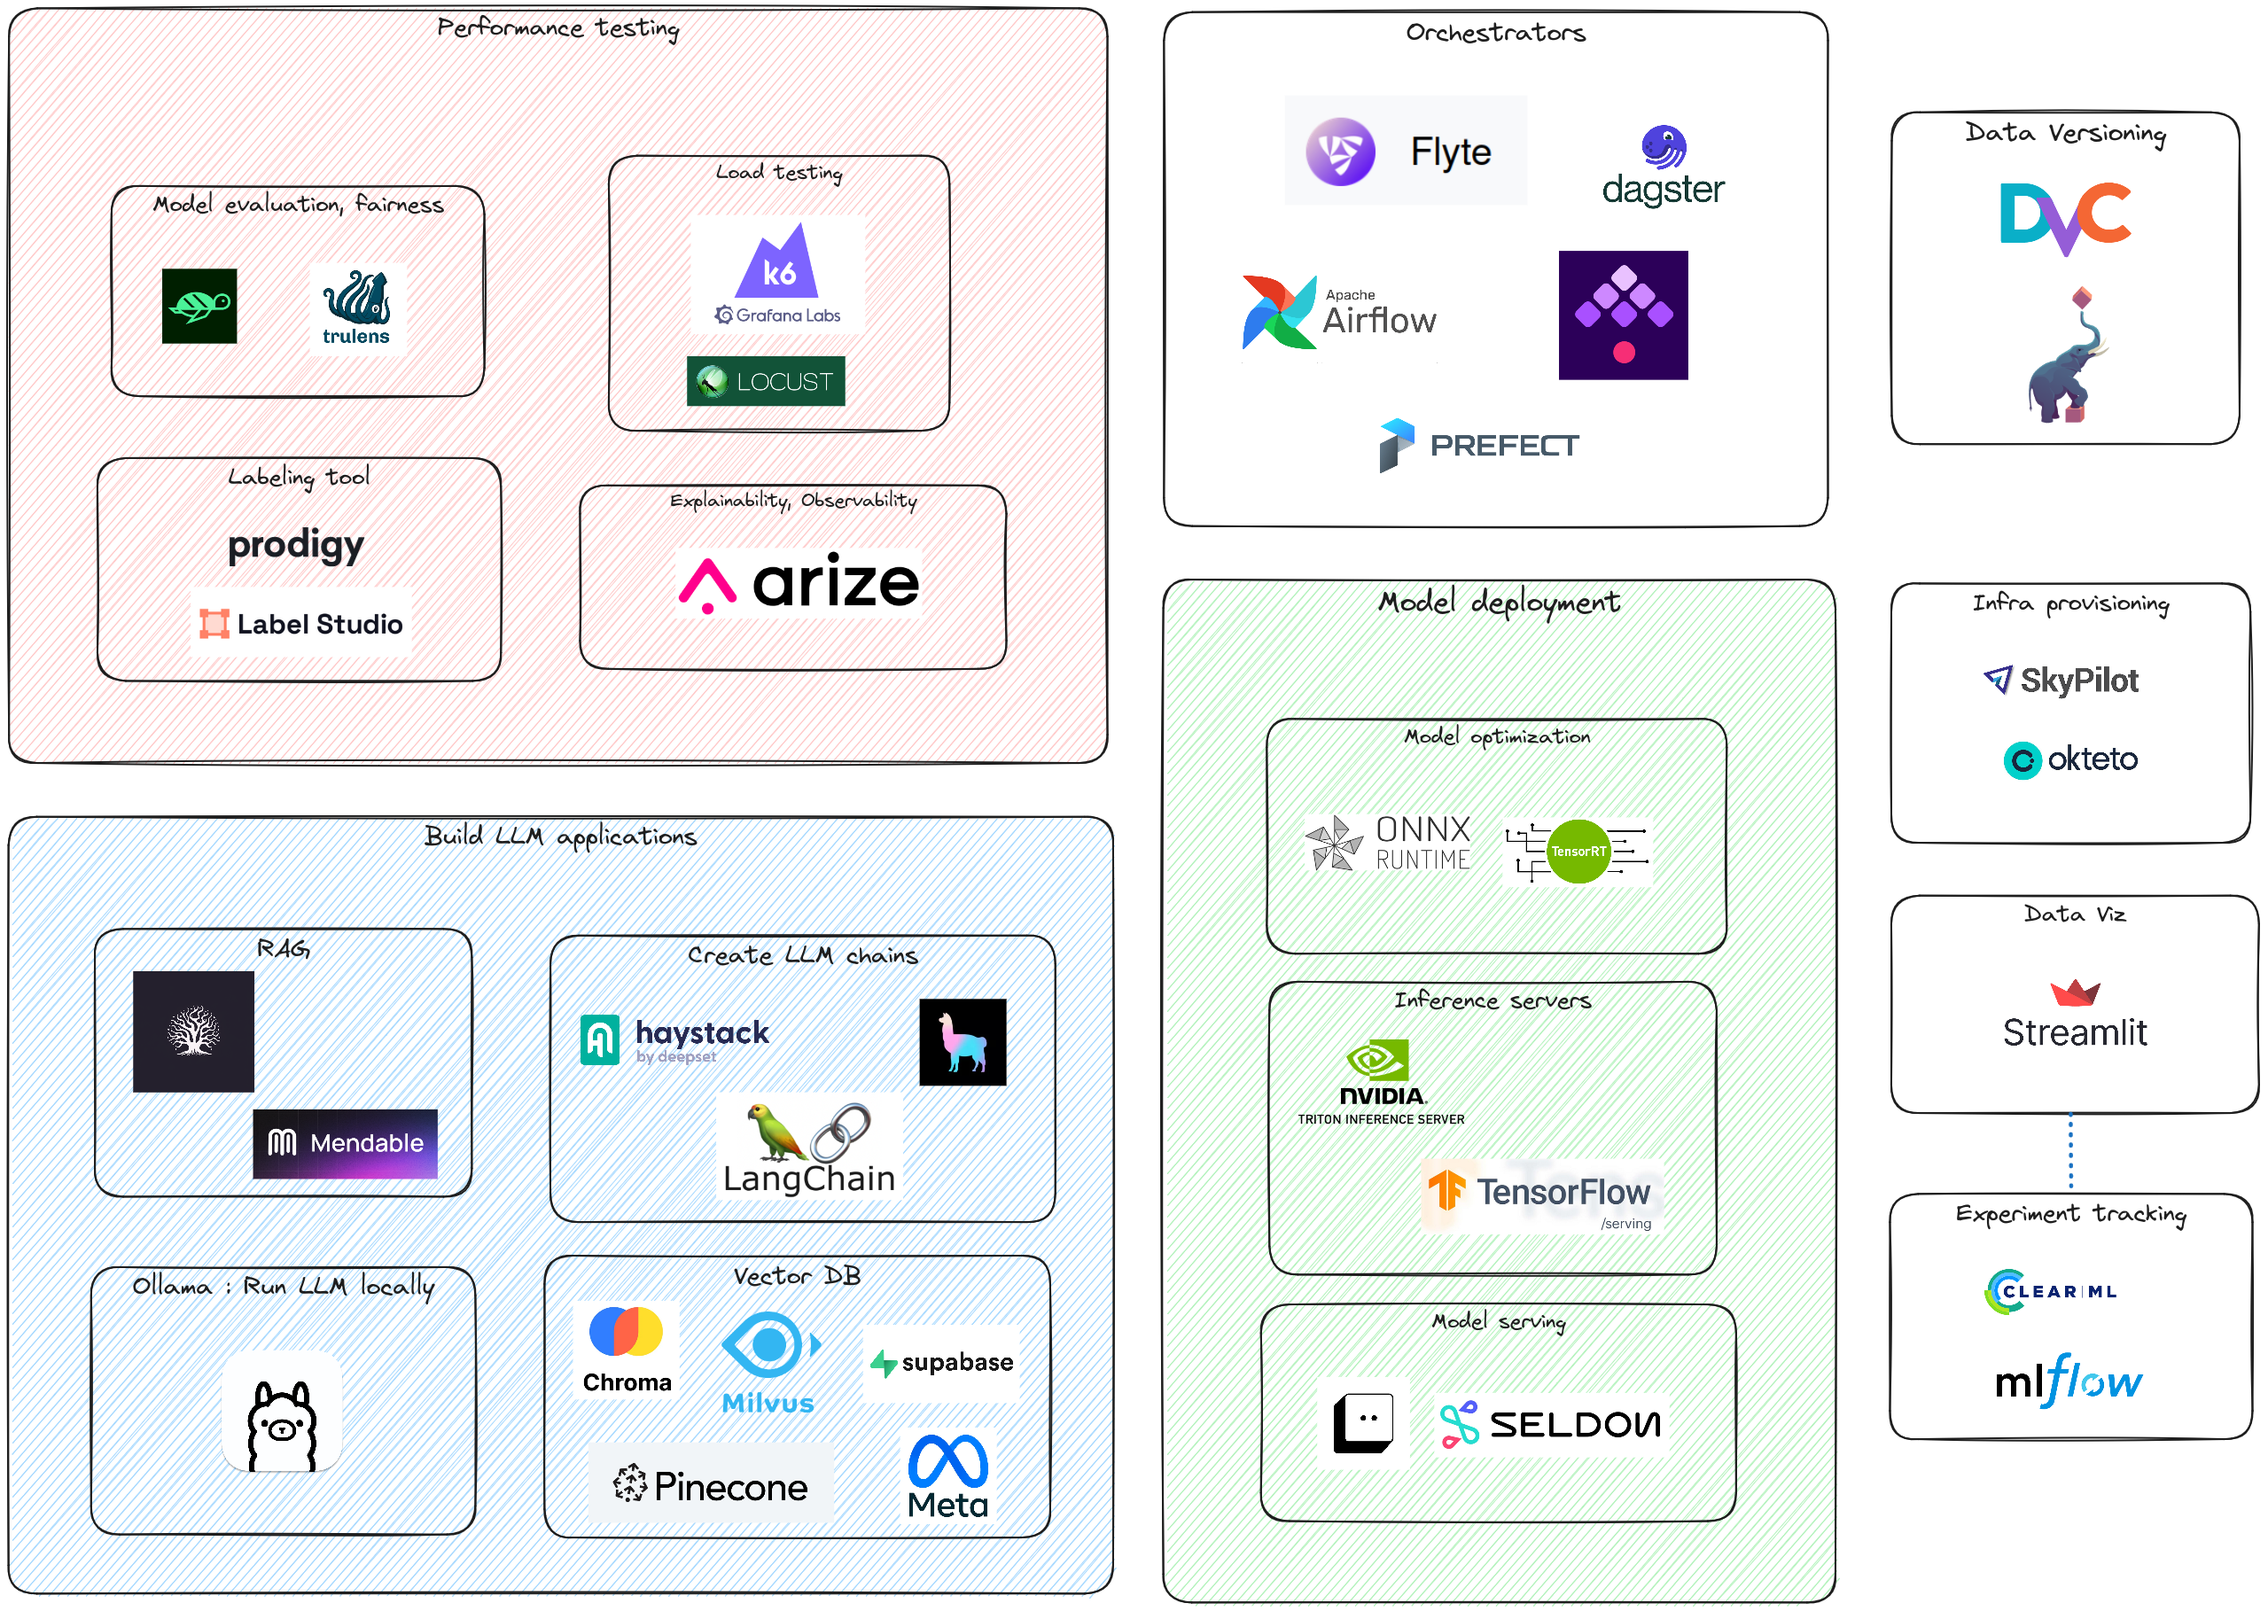
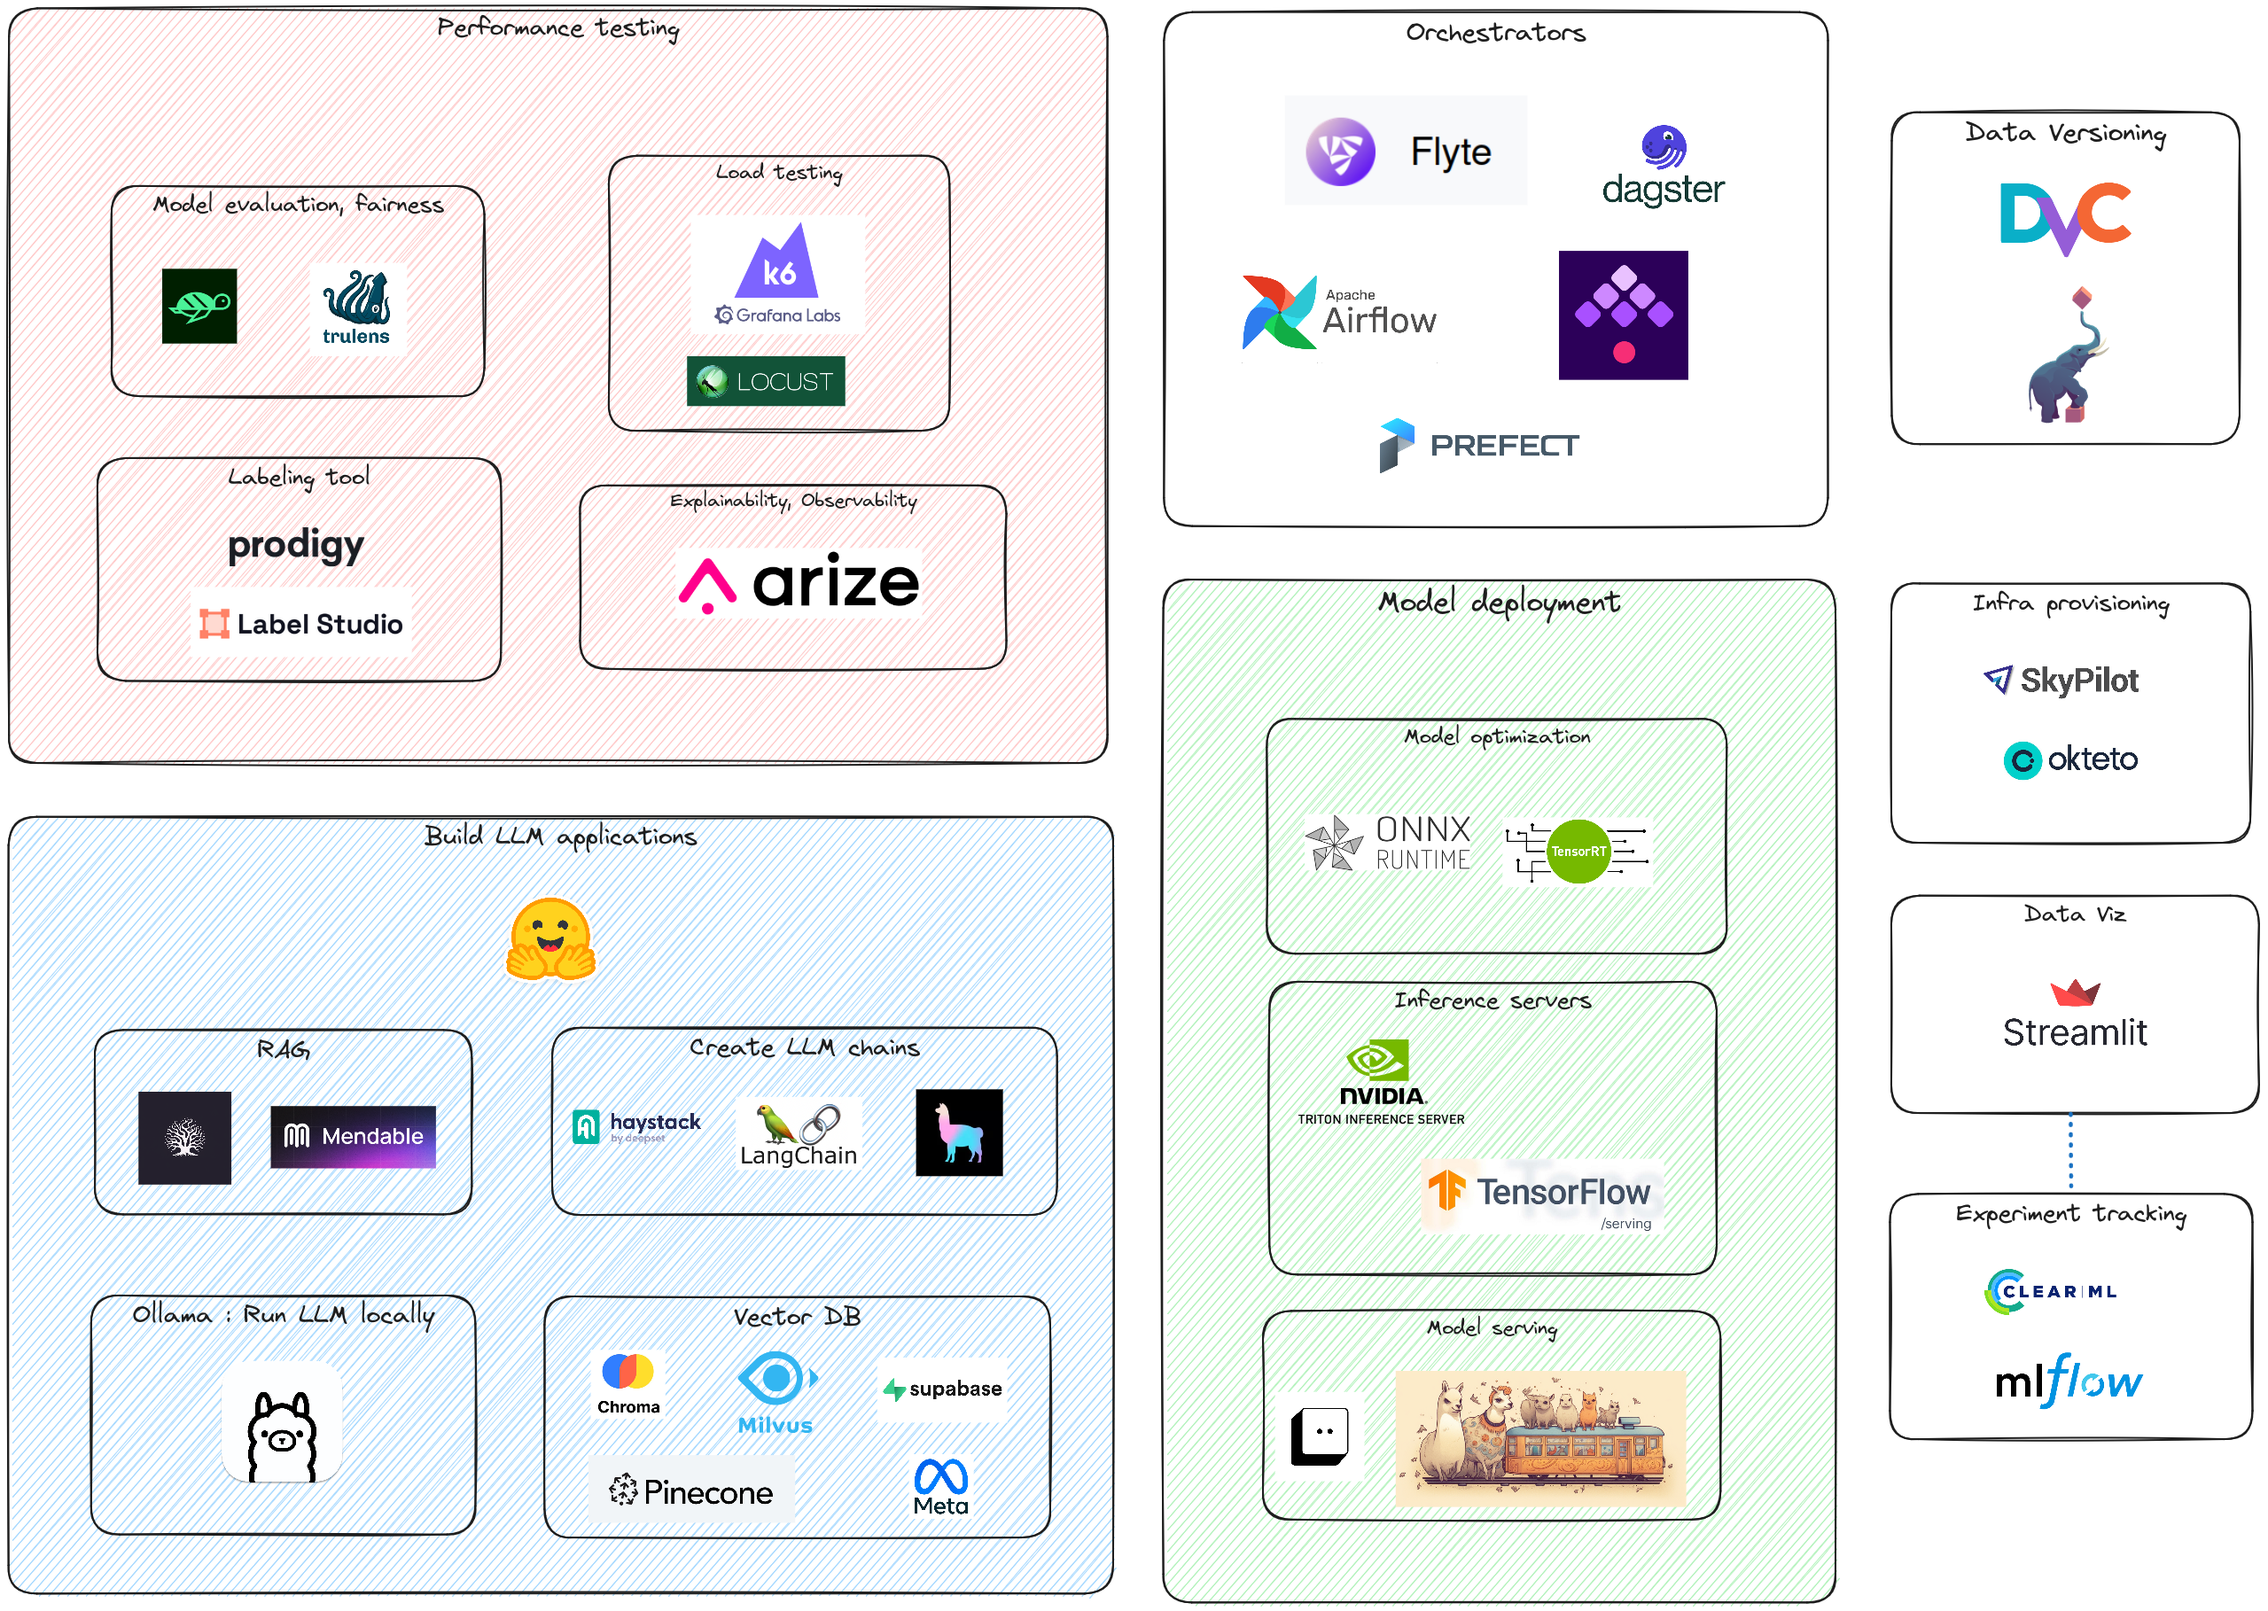
tool map update + santa

diff --git a/README.md b/README.md
@@ -19,7 +19,7 @@ Discovery of open source libraries, mostly related to LLMs. [AOC organized by Zi
 
 - Additional tools : [Giskard AI](https://github.com/Giskard-AI/giskard)
 
-![christmas_strong](img/christmas.gif)
+![christmas](img/santa_boat.png)
 
 Conclusion : I built a map to conclude this AOC, to show where each of these tools fall
 
